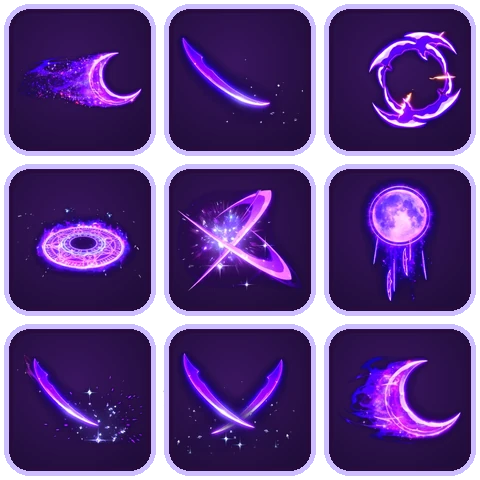
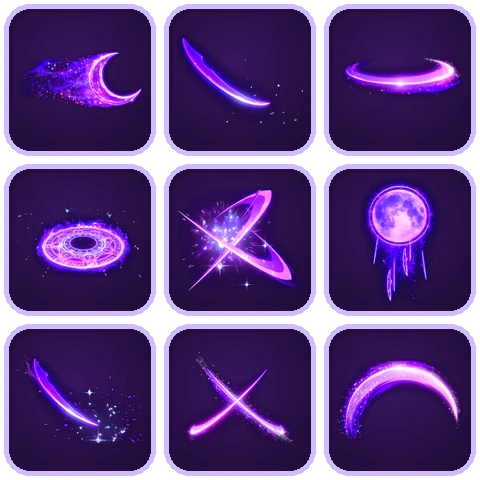
dune moon blade: U = five Meta sword marks, no chain button, new Y parry and P shadow clones, skill bar fits

Changed region(s): [[0.6875, 0.75, 0.9688, 0.9375], [0.7188, 0.0625, 0.9688, 0.2812], [0.375, 0.7188, 0.625, 0.9375]]

diff --git a/dune.html b/dune.html
@@ -33,7 +33,7 @@ button { font: inherit; color: inherit; border: 0; background: none; padding: 0;
 #quest small { display: block; color: var(--gold); font-size: 11px; }
 #boss { position: absolute; left: 50%; top: 9px; width: min(430px, 42vw); transform: translateX(-50%); display: none; text-align: center; font-weight: 800; font-size: 13px; text-shadow: 0 1px 3px #000; }
 #boss .bar { height: 14px; margin-top: 2px; border-color: var(--gold2); } #boss u { background: linear-gradient(180deg,#ff8a3d,#c8241e); }
-#keys { position: absolute; right: calc(10px + var(--sr)); bottom: calc(10px + var(--sb)); display: grid; grid-template-columns: repeat(10, 58px); gap: 5px; pointer-events: auto; }
+#keys { position: absolute; right: calc(10px + var(--sr)); bottom: calc(10px + var(--sb)); display: grid; grid-template-columns: repeat(11, 58px); gap: 5px; pointer-events: auto; }
 .sk { position: relative; width: 58px; height: 58px; padding: 6px; background: radial-gradient(circle at 50% 35%, #355158, #182329); border: 2px solid var(--gold2); border-radius: 10px; box-shadow: 0 2px 0 rgba(0,0,0,.4); }
 .sk .ic { width: 100%; height: 100%; } .sk .cd { position: absolute; left: 0; right: 0; bottom: 0; height: 0; background: rgba(0,0,0,.72); border-radius: 0 0 7px 7px; } .sk em { position: absolute; right: 3px; top: 0; font-style: normal; font-size: 10px; color: var(--gold); text-shadow: 0 1px 2px #000; } .sk q { quotes: none; position: absolute; left: 3px; bottom: 0; font-size: 11px; font-weight: 800; text-shadow: 0 1px 2px #000; }
 .sk.off { filter: grayscale(.75) brightness(.72); } .sk.on { border-color: #fff0b0; }
@@ -63,11 +63,11 @@ button { font: inherit; color: inherit; border: 0; background: none; padding: 0;
 @media (max-height: 440px) {
   #stat { width: 214px; padding: 3px 6px 4px 3px; } #face { flex-basis: 42px; height: 42px; } #lv { left: 37px; top: 31px; height: 17px; line-height: 17px; font-size: 11px; min-width: 20px; } #bars b { display: none; } .bar { height: 11px; } .bar span { font-size: 9px; line-height: 10px; } #xp { height: 5px; }
   #gold { top: 62px; font-size: 12px; } #gold .ic { width: 16px; height: 16px; } #quest { width: 172px; padding: 3px 7px; font-size: 11px; } #quest small { font-size: 9.5px; } #boss { top: 5px; width: 32vw; font-size: 11px; }
-  #keys { grid-template-columns: repeat(10, 46px); gap: 3px; } .sk { width: 46px; height: 46px; padding: 4px; } #panel { padding: 9px 11px; } #panel h2 { font-size: 17px; } .npc img { width: 70px; height: 78px; } .item .ic { flex-basis: 30px; height: 30px; } .item { padding: 3px 6px; font-size: 12px; } #toast b { font-size: 23px; }
+  #keys { grid-template-columns: repeat(11, 46px); gap: 3px; } .sk { width: 46px; height: 46px; padding: 4px; } #panel { padding: 9px 11px; } #panel h2 { font-size: 17px; } .npc img { width: 70px; height: 78px; } .item .ic { flex-basis: 30px; height: 30px; } .item { padding: 3px 6px; font-size: 12px; } #toast b { font-size: 23px; }
 }
-body.t #keys { right: calc(190px + var(--sr)); bottom: calc(6px + var(--sb)); grid-template-columns: repeat(5, 46px); grid-auto-flow: row; }
+body.t #keys { right: calc(190px + var(--sr)); bottom: calc(6px + var(--sb)); grid-template-columns: repeat(6, 46px); grid-auto-flow: row; }
 body.t #touch { display: block; } body.t #talk { display: none !important; }
-@media (max-height: 440px) { body.t #tA { width: 70px; height: 70px; font-size: 15px; } body.t #tJ { right: calc(92px + var(--sr)); width: 54px; height: 54px; } body.t #keys { right: calc(152px + var(--sr)); grid-template-columns: repeat(5, 40px); } body.t .sk { width: 40px; height: 40px; padding: 3px; } body.t #tL, body.t #tR { width: 60px; height: 60px; bottom: calc(30px + var(--sb)); } body.t #tR { left: calc(126px + var(--sl)); } body.t #tU, body.t #tD { width: 48px; height: 48px; left: calc(74px + var(--sl)); } body.t #tU { bottom: calc(78px + var(--sb)); } body.t #tD { bottom: calc(6px + var(--sb)); } }
+@media (max-height: 440px) { body.t #tA { width: 70px; height: 70px; font-size: 15px; } body.t #tJ { right: calc(92px + var(--sr)); width: 54px; height: 54px; } body.t #keys { right: calc(152px + var(--sr)); grid-template-columns: repeat(6, 40px); } body.t .sk { width: 40px; height: 40px; padding: 3px; } body.t #tL, body.t #tR { width: 60px; height: 60px; bottom: calc(30px + var(--sb)); } body.t #tR { left: calc(126px + var(--sl)); } body.t #tU, body.t #tD { width: 48px; height: 48px; left: calc(74px + var(--sl)); } body.t #tU { bottom: calc(78px + var(--sb)); } body.t #tD { bottom: calc(6px + var(--sb)); } }
 #skip { position: fixed; right: calc(12px + var(--sr)); top: 10px; z-index: 6; display: none; padding: 7px 16px; color: var(--gold); font-weight: 800; background: rgba(20,14,28,.72); border: 1px solid var(--gold2); border-radius: 8px; }
 </style>
 </head>
@@ -164,12 +164,14 @@ const OTTER_SKILLS = [ /* owner: close first, middle second, ONE long-range skil
 const MOON_SKILLS = [ /* นักดาบจันทรา (owner 2026-11-25): close to middle range, fast, snappy, many hits ("ขอรวดเร็วฉับไวหลายฮิต"); skills link into each other (CHAIN) */
   { id: 'm_wave', n: 'ฟันจันทร์เสี้ยว', key: 'K', ic: 300, mp: 10, cd: 3.2, mul: .62, anim: 'hero_attack1', d: 'คลื่นดาบจันทร์เสี้ยวพุ่งทะลุแนว โดนตัวละ 3 ฮิต ระยะกลาง' },
   { id: 'm_step', n: 'ก้าวเงา', key: 'L', ic: 301, mp: 12, cd: 4.5, mul: .5, anim: 'hero_skill_dash', d: 'พุ่งทะลุศัตรูทั้งแถว ฟันรัว 4 ฮิต ระหว่างพุ่งไม่โดนตี' },
-  { id: 'm_dance', n: 'ระบำดาบจันทร์', key: 'U', ic: 302, mp: 16, cd: 7, mul: .34, anim: 'hero_skill_spin', d: 'หมุนฟันรอบตัวรัวกว่า 12 ฮิต เดินไปด้วยได้', lv: 2 },
+  { id: 'm_dance', n: 'ระบำดาบจันทร์', key: 'U', ic: 302, mp: 16, cd: 7, mul: .42, anim: 'hero_skill_spin', d: 'ฟันรอบตัว 5 รอยดาบ รอยละ 2 ฮิต เดินไปด้วยได้', lv: 2 },
+  { id: 'm_parry', n: 'ม่านจันทร์สะท้อน', key: 'Y', ic: 307, mp: 14, cd: 8, mul: .5, anim: 'hero_attack3', d: 'ตั้งการ์ด 0.7 วินาที ถ้าโดนตีจะไม่เจ็บ แล้วสวนกลับ 6 ฮิต', lv: 3 },
   { id: 'm_fall', n: 'จันทราร่วง', key: 'I', ic: 303, mp: 18, cd: 7, mul: 2.8, anim: 'hero_skill_leap', d: 'กระโดดฟันลงพื้น วงจันทร์ระเบิด 5 ฮิต', lv: 3 },
+  { id: 'm_clone', n: 'เงาจันทร์แยกร่าง', key: 'P', ic: 308, mp: 24, cd: 16, mul: .45, anim: 'hero_skill_cast', d: 'เรียกเงาร่างแยก 2 ตัวตามหลัง 6 วินาที ฟันโดนเมื่อไหร่ เงาฟันซ้ำให้อีก', lv: 5 },
   { id: 'm_storm', n: 'พายุพันดาบ', key: 'O', ic: 304, mp: 22, cd: 9, mul: .3, anim: 'hero_attack2', d: 'ฟันรัวไปข้างหน้า 14 ฮิตในพริบตา ระยะใกล้ถึงกลาง', lv: 4 },
   { id: 'm_moon', n: 'คืนจันทร์เต็มดวง', key: 'R', ic: 305, mp: 42, cd: 24, mul: .55, anim: 'hero_skill_cast', d: 'ท่าไม้ตาย: เรียกจันทร์เต็มดวง ดาบแสงตกใส่ศัตรูรอบตัว 14 ฮิต', lv: 6 }
 ];
-const CHAIN = ['m_wave', 'm_step', 'm_dance', 'm_fall', 'm_storm'];   /* owner's awaken idea: press a skill near the end of another (or the one chain button) and the next follows at once; 4 links = awaken */
+/* owner's awaken idea, the player links by hand (owner: "C เอาออก ไม่ใช่ต่อแบบนี้ ให้ผู้เล่นต่อเอง"): another skill pressed in the end of a move starts at once; 4 links in a row = awaken */
 const SKILLS = MOON ? MOON_SKILLS : OTTER ? OTTER_SKILLS : DRAGON_SKILLS;
 const OTTER_COMBO = [ /* owner: better basic punches. from = first frame used (the slow wind-up is skipped), v0 / v1 = frames a second before / after the hit, next = frame where the next punch may start, glide = forward slide, tip = where the fist really is */
   { a: 'hero_attack1', from: 3, hit: 8, v0: 46, v1: 26, next: 10, glide: 330, mul: .8, fw: 78, up: 66, push: 70, stop: .022, shake: 1, tip: 36, fist: [[15, 36], [17, 33], [19, 29], [19, 28], [22, 29], [22, 31], [27, 32], [30, 32], [31, 33], [27, 34], [23, 32], [16, 32], [15, 31], [15, 33], [15, 35], [15, 36]], fx: { k: 'arc', ox: 6, oy: -34, r: 40, sy: .55, a0: 2.1, a1: -.25, w: 9, T: .14 } },
@@ -189,7 +191,7 @@ const MOON_COMBO = [ /* fast three-cut combo; fx = the Meta slash drawn at the b
 const COMBO = MOON ? MOON_COMBO : OTTER ? OTTER_COMBO : DRAGON_COMBO;
 
 /* ---------- assets ---------- */
-const BUILD = 30;   /* raise when sprites.json / world.json change, so a browser never mixes a new page with an old list */
+const BUILD = 31;   /* raise when sprites.json / world.json change, so a browser never mixes a new page with an old list */
 const SP = {}, ENV = {}, IMG = {}; let WORLD = {};
 const load = src => new Promise(ok => { const i = new Image(); i.onload = () => Promise.race([i.decode ? i.decode().catch(() => { }) : Promise.resolve(), new Promise(r => setTimeout(r, 2500))]).then(() => ok(i));   /* a browser may never finish decode() in a background window: the game must still start */ i.onerror = () => { console.warn('missing', src); ok(null); }; i.src = src; });
 async function loadAll() {
@@ -230,6 +232,7 @@ function toast(a, b = '') { const t = $('toast'); t.querySelector('b').textConte
 
 /* ---------- combat ---------- */
 function hurtMob(m, base, push, dirX, feel = {}) {
+  if (MOON && P.clone > 0 && !feel.clone && m.st !== 'dead' && G.t - (m.echoT || -9) > .12) { m.echoT = G.t; G.after.push({ d: .09, f: () => { if (m.st === 'dead') return; spark(m.x, m.y - m.T.h * .5, '#7a4bd6', 4, 160, 3); hurtMob(m, atk() * .45, push * .3, dirX, { stop: .008, shake: 0, clone: 1 }); } }); }   /* P: the moon shadows strike again */
   if (m.st === 'dead') return; const crit = Math.random() < .14, d = Math.max(1, Math.round(base * (1 + Math.min(.25, G.chain * .0025)) * rand(.9, 1.12) * (crit ? 1.8 : 1))); G.chain++; G.chainT = 2.2; G.chainPop = .16; m.hp -= d; m.hit = .12; m.sq = feel.big ? 1.25 : 1; const st = G.t - (m.nT === undefined ? -9 : m.nT) < .5 ? (m.nS = ((m.nS || 0) + 1) % 8) : (m.nS = 0); m.nT = G.t; if (feel !== SOFT || crit || G.nums.length < 26) num(m.x, m.y - m.T.h - 6 - st * 17, d, crit, null, feel.big); if (G.nums.length > 70) G.nums.shift(); if (!OTTER) impact(m.x - dirX * m.T.r * .35, m.y - m.T.h * .52, crit, feel.big); if (G.fx.length < 64) { if (OTTER) { if (!feel.tip) fx('fx_w_punch', m.x - dirX * 8, m.y - m.T.h * .55, (crit ? .2 : .13) * (feel === SOFT ? .85 : 1), dirX, 60); } else if (!MOON) fx('fx_hit', m.x + rand(-10, 10), m.y - m.T.h * .55, (crit ? .68 : .52) * (feel === SOFT ? .68 : 1), dirX, 40); } if (OTTER) drip(m.x, m.y - m.T.h * .5, crit ? 5 : 2, 170); else spark(m.x, m.y - m.T.h * .5, MOON ? (crit ? '#fbeaff' : '#b98cff') : crit ? '#ffd24d' : '#ffb15c', crit ? 10 : 5); sfx('hit');
   if (!m.T.boss) { m.kx = dirX * push; if (m.st !== 'atk' || push > 235) { m.st = 'hurt'; m.f = 0; } if (push >= 300) m.lv = -250; } G.stop = Math.max(G.stop, (feel.stop || .028) * (crit ? 1.5 : 1)); if (feel.shake) G.shake = Math.max(G.shake, feel.shake); if (m.hp <= 0) killMob(m);
 }
@@ -242,7 +245,7 @@ function killMob(m) {
 function drop(k, x, y, v = 1) { G.drops.push({ k, x, y, vx: rand(-150, 150), vy: rand(-470, -270), v, t: 0, g: false, base: null }); }
 function gainXP(v) { P.xp += v; while (P.xp >= xpNeed()) { P.xp -= xpNeed(); P.lv++; P.hp = maxHP(); P.mp = maxMP(); fx(MOON ? 'fx_m_spin' : OTTER ? 'fx_w_crown' : 'fx_ult', P.x, P.y - (OTTER || MOON ? 34 : 54), MOON ? .4 : OTTER ? .5 : .54, 1, 34, null, 0, MOON ? .5 : 1); spark(P.x, P.y - 40, '#ffe28a', 28, 240, 4); sfx('up'); toast(`เลเวล ${P.lv}`, (SKILLS.find(q => q.lv === P.lv) ? `ปลดล็อกสกิล ${SKILLS.find(q => q.lv === P.lv).n}!` : 'พลังเพิ่มขึ้น')); save(); } ui(true); }
 function finishQuest() { const Q = QUESTS[G.quest]; G.quest++; G.count = 0; P.gold += Q.r.gold; gainXP(Q.r.xp); const N = QUESTS[G.quest]; toast('ภารกิจสำเร็จ', `+${Q.r.xp} XP  +${Q.r.gold} ทอง${N ? ' · ต่อไป: ' + N.t : ''}`); sfx('up'); if (N && N.k === 'golem') setTimeout(() => toast('ประตูสุสานเปิดแล้ว', 'ไปทางขวาสุดเพื่อปราบบอส'), 2400); save(); ui(true); }
-function hurtPlayer(d, from) { if (P.inv > 0 || P.dead) return; const v = Math.max(1, Math.round(d * rand(.9, 1.1) - def())); P.hp -= v; P.inv = .75; G.chain = 0; G.chainT = 0; num(P.x, P.y - 84, v, false, '#ff7468'); spark(P.x, P.y - 40, '#ff6250', 8); G.shake = Math.max(G.shake, 5); sfx('hurt'); if (P.st !== 'skill' && !P.ladder) { setAnim('hurt'); P.vx = (P.x < from ? -1 : 1) * 210; P.vy = -190; P.on = false; P.plat = null; } if (P.hp <= 0) die(); ui(true); }
+function hurtPlayer(d, from) { if (P.inv > 0 || P.dead) return; if (MOON && P.parry > 0 && P.cast && P.cast.id === 'm_parry' && P.ph === 0) return moonCounter(from); const v = Math.max(1, Math.round(d * rand(.9, 1.1) - def())); P.hp -= v; P.inv = .75; G.chain = 0; G.chainT = 0; num(P.x, P.y - 84, v, false, '#ff7468'); spark(P.x, P.y - 40, '#ff6250', 8); G.shake = Math.max(G.shake, 5); sfx('hurt'); if (P.st !== 'skill' && !P.ladder) { setAnim('hurt'); P.vx = (P.x < from ? -1 : 1) * 210; P.vy = -190; P.on = false; P.plat = null; } if (P.hp <= 0) die(); ui(true); }
 function die() { P.hp = 0; P.dead = true; setAnim('death'); P.vx = 0; setTimeout(() => { if (P.dead) { G.state = 'over'; $('over').style.display = 'flex'; } }, 1500); }
 function hitArea(x0, x1, y0, y1, dmg, push, dir, feel) { let n = 0; for (const m of G.mobs) { if (m.st === 'dead') continue; if (m.x + m.T.r < x0 || m.x - m.T.r > x1 || m.y < y0 || m.y - m.T.h > y1) continue; hurtMob(m, dmg, push, dir || (m.x < P.x ? -1 : 1), feel); n++; } return n; }
 function useSkill(S) {
@@ -396,10 +399,7 @@ function linkMoon(S) {   /* a skill started inside the end of another one = a li
   if (linked) { ring(P.x, P.y, 70, .22); spark(P.x, P.y - 40, '#e6d2ff', 10, 220, 3); num(P.x, P.y - 96, `ต่อ ${G.mChain}`, false, '#d8b8ff'); }
   if (G.mChain >= 4 && !(P.awake > 0)) { P.awake = 7; G.flash = Math.max(G.flash, .3); G.shake = Math.max(G.shake, 8); ring(P.x, P.y, 170, .45); fx('fx_m_spin', P.x, P.y - 36, .55, 1, 30, P, 36, .5); sfx('up'); toast('ตื่นพลังจันทรา!', 'แรงขึ้น 30% เร็วขึ้น 20% 7 วินาที'); }
 }
-function startMoon(S) { P.link = false; P.ox = P.x; P.ph = 0; P.tick = 0; P.hitSet = null; if (S.id === 'm_step') P.inv = Math.max(P.inv, .45); if (S.id === 'm_dance') fx('fx_m_spin', P.x, P.y - 34, .48, P.dir, 17, P, 34, .5); if (S.id === 'm_storm') fx('fx_m_flurry', P.x + P.dir * 118, P.y - 40, .5, P.dir, 32); }
-function chainSkill() {   /* the one phone button: the next ready skill of CHAIN after the last one used */
-  const i0 = Math.max(-1, CHAIN.indexOf(G.mLast)); for (let k = 1; k <= CHAIN.length; k++) { const S = SKILLS.find(q => q.id === CHAIN[(i0 + k) % CHAIN.length]); if (S && !(S.lv && P.lv < S.lv) && !(P.cds[S.id] > 0) && P.mp >= S.mp) return useSkill(S); }
-}
+function startMoon(S) { P.link = false; P.ox = P.x; P.ph = 0; P.tick = 0; P.hitSet = null; if (S.id === 'm_step') P.inv = Math.max(P.inv, .45); P.mt = 0; if (S.id === 'm_parry') P.parry = .7; if (S.id === 'm_storm') fx('fx_m_flurry', P.x + P.dir * 118, P.y - 40, .5, P.dir, 32); }
 function stepMoon(dt) {
   const S = P.cast, m = SP[S.anim], n = m ? m.n : 16, a = atk() * S.mul, D = P.dir, sp = ospd();
   const end = () => { P.link = false; setAnim('idle'); };
@@ -407,9 +407,13 @@ function stepMoon(dt) {
   if (S.id === 'm_step') { P.t += dt * 30 * sp; P.f = clamp(P.t, 0, n - 1); if (P.t >= 3 && P.t < 10) { lunge(1050); if (Math.random() < dt * 60) G.ghosts.push({ a: P.a, f: P.f, x: P.x, y: P.y, dir: D, t: 0, T: .22 }); }
     if (!P.hitDone && P.t >= 10) { P.hitDone = true; P.vx = D * 80; const x0 = Math.min(P.ox, P.x) - 24, x1 = Math.max(P.ox, P.x) + 24, gy = P.y; fx('fx_m_c3', (P.ox + P.x) / 2, gy - 36, Math.min(1.2, (x1 - x0) / 300), D, 40, null, 0, .55); sfx('boom');
       multi('m_step', (w, i, end) => { hitArea(x0, x1, gy - 110, gy + 24, a * 4 * w, end ? 260 : 20, D, end ? { stop: .08, shake: 6, big: 1 } : MSOFT); if (end) { ring((x0 + x1) / 2, gy, (x1 - x0) / 2, .28); G.shake = 8; } else sfx('swing'); }); } }
-  if (S.id === 'm_dance') { P.t += dt * 26 * sp; P.f = P.t < 3 ? P.t : P.t < 38 ? 3 + ((P.t - 3) % 10) : Math.min(n - 1, 13 + (P.t - 38)); P.tick -= dt;
-    if (P.t < 38 && P.tick <= 0) { P.tick = .075 / sp; hitArea(P.x - 124, P.x + 124, P.y - 112, P.y + 24, a, 26, 0, MSOFT); sfx('swing'); }
-    if (P.t >= 38 && !P.hitDone) { P.hitDone = true; ring(P.x, P.y, 140, .3); G.shake = 9; sfx('boom'); hitArea(P.x - 136, P.x + 136, P.y - 116, P.y + 24, a * 2.4, 280, 0, { stop: .08, shake: 6, big: 1 }); } }
+  if (S.id === 'm_dance') { P.mt += dt * sp; P.t += dt * 17 * sp; P.f = Math.min(n - 1, P.t);   /* owner: "U ให้เป็นรอยดาบ 4-5 ครั้ง": five Meta sword marks, two hits each, the last one big */
+    const B = [.04, .2, .36, .52, .72], FXD = [['fx_m_d1', 0, -30, .5, 1], ['fx_m_d2', 26, -44, .5, 0], ['fx_m_d3', 30, -42, .5, 0], ['fx_m_d4', 0, -30, .52, 1], ['fx_m_d5', 18, -50, .62, 0]];
+    while (P.ph < 5 && P.mt >= B[P.ph]) { const i = P.ph++, F = FXD[i], last = i === 4; if (F[4]) fx(F[0], P.x, P.y + F[2], F[3], D, 30, P, -F[2]); else fx(F[0], P.x + D * F[1], P.y + F[2], F[3], D, 30); sfx(last ? 'boom' : 'swing');
+      for (let h = 0; h < 2; h++) G.after.push({ d: h * .045, f: () => { const R = last ? 150 : 130; hitArea(P.x - R, P.x + R, P.y - 118, P.y + 24, a * (last && h ? 2.2 : 1), last && h ? 280 : 24, 0, last && h ? { stop: .08, shake: 7, big: 1 } : MSOFT); if (last && h) { ring(P.x, P.y, 150, .3); G.shake = 9; } } }); } }
+  if (S.id === 'm_parry') { if (P.ph === 0) { P.parry -= dt; P.f = 1 + Math.floor(G.t * 8) % 2; if (Math.random() < dt * 30) spark(P.x + D * 22, P.y - rand(20, 60), '#e6d2ff', 1, 60, 3); if (P.parry <= 0) { P.ph = 2; P.t = n - 1; } }
+    else { P.t += dt * (P.ph === 1 ? 34 : 40) * sp; P.f = Math.min(n - 1, P.t); } }
+  if (S.id === 'm_clone') { P.t += dt * 30 * sp; P.f = Math.min(n - 1, P.t); if (!P.hitDone && P.t >= 5) { P.hitDone = true; P.clone = 6; ring(P.x, P.y, 110, .34); spark(P.x, P.y - 40, '#a873ff', 20, 260, 3); G.flash = Math.max(G.flash, .12); sfx('up'); } }
   if (S.id === 'm_fall') { P.t += dt * 24 * sp; P.f = Math.min(n - 1, P.t); if (P.t >= 2 && P.t < 8) lunge(360);
     if (P.ph === 0 && P.t >= 3.5) { P.ph = 1; fx('fx_m_fall', P.x + D * 70, P.y - 24, .62, D, 40); }
     if (!P.hitDone && P.t >= 8) { P.hitDone = true; P.vx = 0; const cx = P.x + D * 24, gy = P.y; ring(cx, gy, 150, .36); G.shake = 14; G.flash = Math.max(G.flash, .14); sfx('boom');
@@ -422,9 +426,15 @@ function stepMoon(dt) {
     if (P.ph === 1 && P.t >= 8) { P.ph = 2; const gx = P.x, gy0 = P.y, foes = G.mobs.filter(q => q.st !== 'dead' && Math.abs(q.x - gx) < 520 && Math.abs(q.y - gy0) < 260).sort((p, q) => Math.abs(p.x - gx) - Math.abs(q.x - gx));
       for (let i = 0; i < 14; i++) { const q = foes.length ? foes[i % foes.length] : null, x = q ? q.x + rand(-18, 18) : gx + D * rand(40, 420), gy = q ? q.y : gy0; G.after.push({ d: i * .055, f: () => G.mbl.push({ x, y: gy - 300, gy, t: 0, a, end: i === 13 }) }); } } }
   if (P.f >= n * .55) P.link = true;   /* the end of a move may link into the next skill */
-  const done = S.id === 'm_dance' ? P.t >= 41 : S.id === 'm_storm' ? P.t >= 28 : P.t >= n - 1; if (done) end();
+  const done = S.id === 'm_parry' ? P.ph > 0 && P.t >= n - 1 : S.id === 'm_storm' ? P.t >= 28 : P.t >= n - 1; if (done) end();
+}
+function moonCounter(from) {   /* Y: the blow is blocked, the moon mirror flashes, six cuts answer it */
+  P.parry = 0; P.ph = 1; P.t = 3; P.inv = .6; P.dir = from > P.x ? 1 : -1; const D = P.dir, a = atk() * P.cast.mul, x0 = D > 0 ? P.x : P.x - 190, x1 = D > 0 ? P.x + 190 : P.x;
+  G.flash = Math.max(G.flash, .3); G.stop = .09; G.shake = 8; ring(P.x + D * 20, P.y - 30, 70, .25); spark(P.x + D * 20, P.y - 40, '#fbeaff', 18, 300, 3); sfx('boom'); num(P.x, P.y - 92, 'สะท้อน!', false, '#e6d2ff'); fx('fx_m_d3', P.x + D * 64, P.y - 40, .56, D, 40);
+  for (let i = 0; i < 6; i++) G.after.push({ d: .06 + i * .05, f: () => { const end = i === 5; if (end) fx('fx_m_c3', P.x + D * 80, P.y - 32, .6, D, 44); hitArea(x0, x1, P.y - 120, P.y + 24, a * (end ? 2.5 : 1), end ? 320 : 22, D, end ? { stop: .1, shake: 9, big: 1 } : MSOFT); sfx('swing'); } });
 }
 function stepMoonWorld(dt) {
+  P.trail = P.trail || []; P.trail.unshift({ x: P.x, y: P.y, a: P.a, f: P.f, dir: P.dir }); if (P.trail.length > 24) P.trail.pop(); if (P.clone > 0) P.clone -= dt;
   if (P.awake > 0) { P.awake -= dt; if (Math.random() < dt * 14) G.parts.push({ x: P.x + rand(-22, 22), y: P.y - rand(6, 70), vx: rand(-12, 12), vy: rand(-140, -60), t: rand(.3, .5), T: .5, s: rand(2, 3.6), c: Math.random() < .5 ? '#e6d2ff' : '#a873ff' }); }
   if (G.mChainT > 0) { G.mChainT -= dt; if (G.mChainT <= 0) G.mChain = 0; } if (G.dim > 0) G.dim -= dt;
   for (let i = G.mw.length - 1; i >= 0; i--) { const w = G.mw[i], d = w.v * dt; w.x += d; w.left -= Math.abs(d); w.t += dt;
@@ -438,7 +448,8 @@ function drawMoonBlades() {   /* the falling light blades of the ultimate: solid
   for (const b of G.mbl) { const x = WX(b.x), y = WY(b.y); ctx.save(); ctx.translate(x, y); ctx.lineCap = 'round'; for (const [c, w, l] of [['rgba(40,10,70,.9)', 9, 64], ['rgba(170,110,255,1)', 5.5, 60], ['rgba(250,242,255,1)', 2.2, 52]]) { ctx.strokeStyle = c; ctx.lineWidth = w; ctx.beginPath(); ctx.moveTo(-6, -l); ctx.quadraticCurveTo(8, -l * .45, 0, 0); ctx.stroke(); } ctx.restore(); }
   if (G.dim > 0) { ctx.save(); ctx.setTransform(K, 0, 0, K, 0, 0); ctx.fillStyle = `rgba(20,6,40,${.22 * clamp(G.dim, 0, 1)})`; ctx.fillRect(0, 0, VW, VIEW_H); ctx.restore(); }
 }
-function drawAwake(front) { if (!(P.awake > 0) || P.dead) return; const k = clamp(P.awake, 0, 1), x = WX(P.x), y = WY(P.y); ctx.save();
+function drawClones() { if (!(P.clone > 0) || !P.trail || P.dead) return; const al = clamp(P.clone, 0, 1) * .5; for (const j of [7, 15]) { const q = P.trail[Math.min(j, P.trail.length - 1)]; if (!q) continue; ctx.save(); ctx.filter = 'brightness(.45) sepia(1) hue-rotate(215deg) saturate(3.5)'; sprite(q.a, q.f, q.x - q.dir * 6, q.y, HERO_SC, q.dir, al); ctx.restore(); } }
+function drawAwake(front) { if (!front) drawClones(); if (!(P.awake > 0) || P.dead) return; const k = clamp(P.awake, 0, 1), x = WX(P.x), y = WY(P.y); ctx.save();
   if (!front) { const g = ctx.createRadialGradient(x, y - 34, 4, x, y - 34, 58); g.addColorStop(0, `rgba(190,140,255,${.4 * k})`); g.addColorStop(1, 'rgba(190,140,255,0)'); ctx.fillStyle = g; ctx.fillRect(x - 60, y - 96, 120, 120); }
   else { ctx.strokeStyle = `rgba(232,214,255,${.8 * k})`; ctx.lineWidth = 2; for (let i = 0; i < 2; i++) { const an = G.t * 5 + i * Math.PI; ctx.beginPath(); ctx.ellipse(x, y - 30, 34, 10, 0, an, an + 1.6); ctx.stroke(); } }
   ctx.restore(); }
@@ -633,7 +644,7 @@ function ic(el, i) { if (i >= 300) { const n = i - 300; el.style.backgroundImage
 const SKEL = {};
 function buildKeys() {
   const K = $('keys'); K.innerHTML = ''; const make = (id, icon, key, fn, title, css) => { const b = document.createElement('button'); b.className = 'sk'; b.title = title; b.innerHTML = `<i class="ic"></i><span class="cd"></span><em>${TOUCH ? '' : key}</em><q></q>`; ic(b.querySelector('.ic'), icon); if (css) b.querySelector('.ic').style.cssText += css; b.addEventListener('pointerdown', e => { e.preventDefault(); ac(); fn(); }); K.appendChild(b); SKEL[id] = b; };
-  for (const S of SKILLS) make(S.id, S.ic, S.key, () => useSkill(S), `${S.n}: ${S.d}`, S.ics); make('dash', OTTER ? 207 : MOON ? 306 : 107, 'Shift', doDash, 'พุ่ง'); if (MOON) make('chain', 307, 'C', chainSkill, 'ต่อสกิล: ไล่สกิลตามลำดับ ต่อครบ 4 ท่าตื่นพลัง'); make('hp', 4, 'Q', () => drink('hp'), 'ยาแดง'); make('mp', 5, 'E', () => drink('mp'), 'ยาฟ้า');
+  for (const S of SKILLS) make(S.id, S.ic, S.key, () => useSkill(S), `${S.n}: ${S.d}`, S.ics); make('dash', OTTER ? 207 : MOON ? 306 : 107, 'Shift', doDash, 'พุ่ง'); make('hp', 4, 'Q', () => drink('hp'), 'ยาแดง'); make('mp', 5, 'E', () => drink('mp'), 'ยาฟ้า');
 }
 let uiT = 0;
 function ui(force) {
@@ -688,7 +699,7 @@ function drawIntro() { const I = G.intro; if (!I) return; const W = VW, H = VIEW
 
 /* ---------- input ---------- */
 const MAP = { a: 'left', arrowleft: 'left', d: 'right', arrowright: 'right', w: 'up', arrowup: 'up', s: 'down', arrowdown: 'down', ' ': 'jump', j: 'attack', z: 'attack', f: 'talk' };
-addEventListener('keydown', e => { const k = e.key.toLowerCase(); if (['arrowup', 'arrowdown', 'arrowleft', 'arrowright', ' '].includes(k)) e.preventDefault(); if (G.state === 'intro') { if (!e.repeat) nextIntro(); return; } if (G.state === 'menu') { if (k === 'escape' || k === 'f') closeMenu(); return; } if (G.state !== 'play' || e.repeat) { if (MAP[k]) I[MAP[k]] = 1; return; } ac(); if (MAP[k]) { I[MAP[k]] = 1; EDGE[MAP[k]] = 1; } const S = SKILLS.find(q => q.key.toLowerCase() === k); if (S) useSkill(S); if (k === 'shift' || k === 'x') doDash(); if (MOON && k === 'c') chainSkill(); if (k === 'q') drink('hp'); if (k === 'e') drink('mp'); });
+addEventListener('keydown', e => { const k = e.key.toLowerCase(); if (['arrowup', 'arrowdown', 'arrowleft', 'arrowright', ' '].includes(k)) e.preventDefault(); if (G.state === 'intro') { if (!e.repeat) nextIntro(); return; } if (G.state === 'menu') { if (k === 'escape' || k === 'f') closeMenu(); return; } if (G.state !== 'play' || e.repeat) { if (MAP[k]) I[MAP[k]] = 1; return; } ac(); if (MAP[k]) { I[MAP[k]] = 1; EDGE[MAP[k]] = 1; } const S = SKILLS.find(q => q.key.toLowerCase() === k); if (S) useSkill(S); if (k === 'shift' || k === 'x') doDash(); if (k === 'q') drink('hp'); if (k === 'e') drink('mp'); });
 addEventListener('keyup', e => { const k = MAP[e.key.toLowerCase()]; if (k) I[k] = 0; });
 document.querySelectorAll('.tb').forEach(b => { const k = b.dataset.k, on = e => { e.preventDefault(); ac(); I[k] = 1; EDGE[k] = 1; b.classList.add('down'); try { b.setPointerCapture(e.pointerId); } catch (x) {} }, off = () => { I[k] = 0; b.classList.remove('down'); }; b.addEventListener('pointerdown', on); b.addEventListener('pointerup', off); b.addEventListener('pointercancel', off); b.addEventListener('lostpointercapture', off); });
 addEventListener('blur', () => { for (const k in I) I[k] = 0; });

diff --git a/tools/art/moon_icons.py b/tools/art/moon_icons.py
@@ -1,11 +1,11 @@
 """Skill icons for the moon blade, made from his own effect sheets (no new picture): python tools/art/moon_icons.py
 -> art/dune/env/moon_icons.webp, 3 x 3 cells of 160 px. In dune.html an icon number from 300 up means this sheet:
-0 K wave, 1 L shadow step, 2 U moon dance (spin), 3 I moonfall, 4 O blade storm (flurry), 5 R full moon, 6 dash, 7 chain button, 8 spare."""
+0 K wave, 1 L shadow step, 2 U moon dance (spin), 3 I moonfall, 4 O blade storm (flurry), 5 R full moon, 6 dash, 7 Y moon mirror (parry), 8 P moon shadows (clones)."""
 import json
 import numpy as np
 from PIL import Image, ImageDraw, ImageFilter
 sp = json.load(open('art/dune/sprites.json')); C = 160
-PICK = [('fx_m_wave', 14), ('fx_m_c3', 4), ('fx_m_spin', 8), ('fx_m_fall', 14), ('fx_m_flurry', 12), ('fx_m_moon', 5), ('fx_m_c1', 3), ('fx_m_c1', 5), ('fx_m_wave', 6)]
+PICK = [('fx_m_wave', 14), ('fx_m_c3', 4), ('fx_m_d1', 4), ('fx_m_fall', 14), ('fx_m_flurry', 12), ('fx_m_moon', 5), ('fx_m_c1', 3), ('fx_m_d3', 3), ('fx_m_d5', 5)]
 S = Image.new('RGBA', (C * 3, C * 3), (0, 0, 0, 0))
 for n, (k, f) in enumerate(PICK):
     m = sp[k]; im = Image.open(m['src']).convert('RGBA'); f = min(f, m['n'] - 1); c = im.crop(((f % m['cols']) * m['w'], (f // m['cols']) * m['h'], (f % m['cols'] + 1) * m['w'], (f // m['cols'] + 1) * m['h']))
@@ -14,7 +14,7 @@ for n, (k, f) in enumerate(PICK):
     bg = Image.new('RGBA', (C, C)); g = np.zeros((C, C, 4), np.uint8); yy, xx = np.mgrid[0:C, 0:C]; r = np.hypot(xx - C * .45, yy - C * .4) / C
     g[..., 0] = np.clip(58 - r * 40, 14, 255); g[..., 1] = np.clip(22 - r * 14, 6, 255); g[..., 2] = np.clip(96 - r * 60, 28, 255); g[..., 3] = 255
     mask = Image.new('L', (C, C), 0); ImageDraw.Draw(mask).rounded_rectangle((4, 4, C - 5, C - 5), 26, fill=255); cell.paste(Image.fromarray(g, 'RGBA'), (0, 0), mask)
-    if n == 7:   # chain button: two crescents linked
+    if n == -1:   # (was the chain button)
         c2 = c.copy().transpose(Image.FLIP_LEFT_RIGHT); cell.alpha_composite(c2, ((C - c.width) // 2 - 14, (C - c.height) // 2 + 6))
     cell.alpha_composite(c, ((C - c.width) // 2, (C - c.height) // 2))
     d.rounded_rectangle((4, 4, C - 5, C - 5), 26, outline=(205, 190, 255, 255), width=5); d.rounded_rectangle((10, 10, C - 11, C - 11), 21, outline=(40, 12, 60, 255), width=3)

diff --git a/tools/art/moon_vfx.py b/tools/art/moon_vfx.py
@@ -24,6 +24,11 @@ FX = {   # key: (video, frames, frames that fade out at the end)
     'fx_m_spin': ('fx_m_spin', span(4, 140, 24), 4),      # ring of crescents spinning round the body
     'fx_m_fall': ('fx_m_fall', span(0, 40, 10) + span(44, 190, 14), 5),   # blade falls, moon circle on the ground
     'fx_m_moon': ('fx_m_moon', span(0, 84, 14), 0),       # the full moon of the ultimate (the blade rain is drawn in code)
+    'fx_m_d1': ('fx_m_dance', span(10, 44, 9), 3),      # U sword dance (owner "U ให้เป็นรอยดาบ 4-5 ครั้ง"): 1 wide flat ring
+    'fx_m_d2': ('fx_m_dance', span(76, 88, 5), 2),       # 2 rising diagonal
+    'fx_m_d3': ('fx_m_dance', span(90, 110, 7), 3),      # 3 crossed X
+    'fx_m_d4': ('fx_m_dance', span(114, 150, 9), 3),     # 4 flat ring the other way
+    'fx_m_d5': ('fx_m_dance', span(154, 204, 11), 4),    # 5 the big crescent
 }
 def read(name):
     c = cv2.VideoCapture(RAW + name + '.mp4'); out = []
